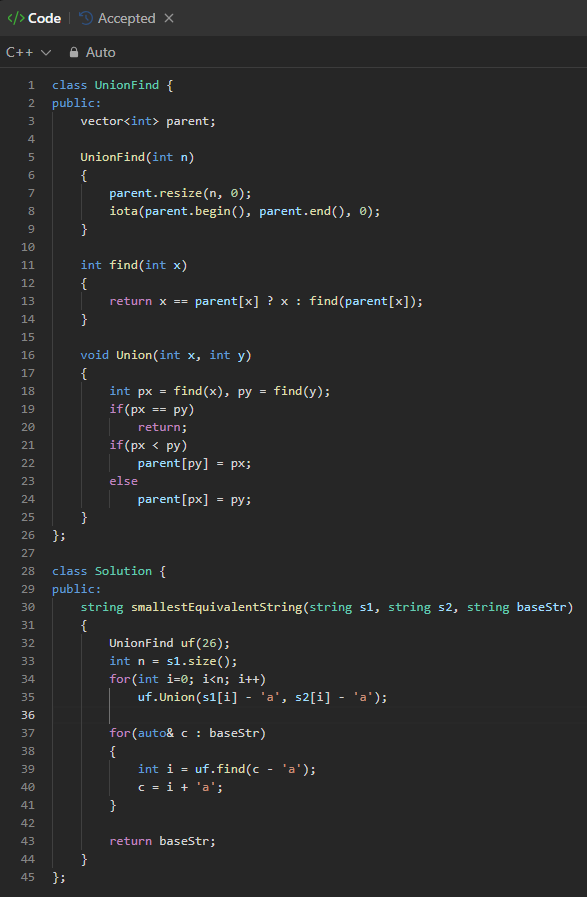
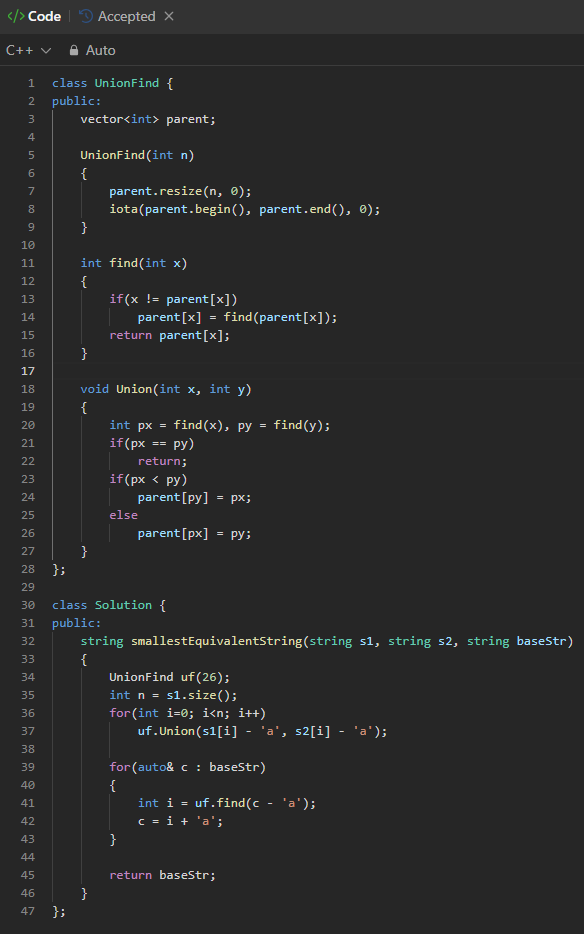
update 1061. Lexicographically Smallest Equivalent String path compression

diff --git a/1061. Lexicographically Smallest Equivalent String/Solution.cpp b/1061. Lexicographically Smallest Equivalent String/Solution.cpp
@@ -1,45 +1,47 @@
 class UnionFind {
-public:
-    vector<int> parent;
-
-    UnionFind(int n)
-    {
-        parent.resize(n, 0);
-        iota(parent.begin(), parent.end(), 0);
-    }
-
-    int find(int x)
-    {
-        return x == parent[x] ? x : find(parent[x]);
-    }
-
-    void Union(int x, int y)
-    {
-        int px = find(x), py = find(y);
-        if(px == py)
-            return;
-        if(px < py)
-            parent[py] = px;
-        else
-            parent[px] = py;
-    }
-};
-
-class Solution {
-public:
-    string smallestEquivalentString(string s1, string s2, string baseStr) 
-    {
-        UnionFind uf(26);
-        int n = s1.size();
-        for(int i=0; i<n; i++)
-            uf.Union(s1[i] - 'a', s2[i] - 'a');
-
-        for(auto& c : baseStr)
+    public:
+        vector<int> parent;
+    
+        UnionFind(int n)
         {
-            int i = uf.find(c - 'a');
-            c = i + 'a';
+            parent.resize(n, 0);
+            iota(parent.begin(), parent.end(), 0);
         }
-
-        return baseStr;
-    }
-};
+    
+        int find(int x)
+        {
+            if(x != parent[x])
+                parent[x] = find(parent[x]);
+            return parent[x];
+        }
+    
+        void Union(int x, int y)
+        {
+            int px = find(x), py = find(y);
+            if(px == py)
+                return;
+            if(px < py)
+                parent[py] = px;
+            else
+                parent[px] = py;
+        }
+    };
+    
+    class Solution {
+    public:
+        string smallestEquivalentString(string s1, string s2, string baseStr) 
+        {
+            UnionFind uf(26);
+            int n = s1.size();
+            for(int i=0; i<n; i++)
+                uf.Union(s1[i] - 'a', s2[i] - 'a');
+    
+            for(auto& c : baseStr)
+            {
+                int i = uf.find(c - 'a');
+                c = i + 'a';
+            }
+    
+            return baseStr;
+        }
+    };
